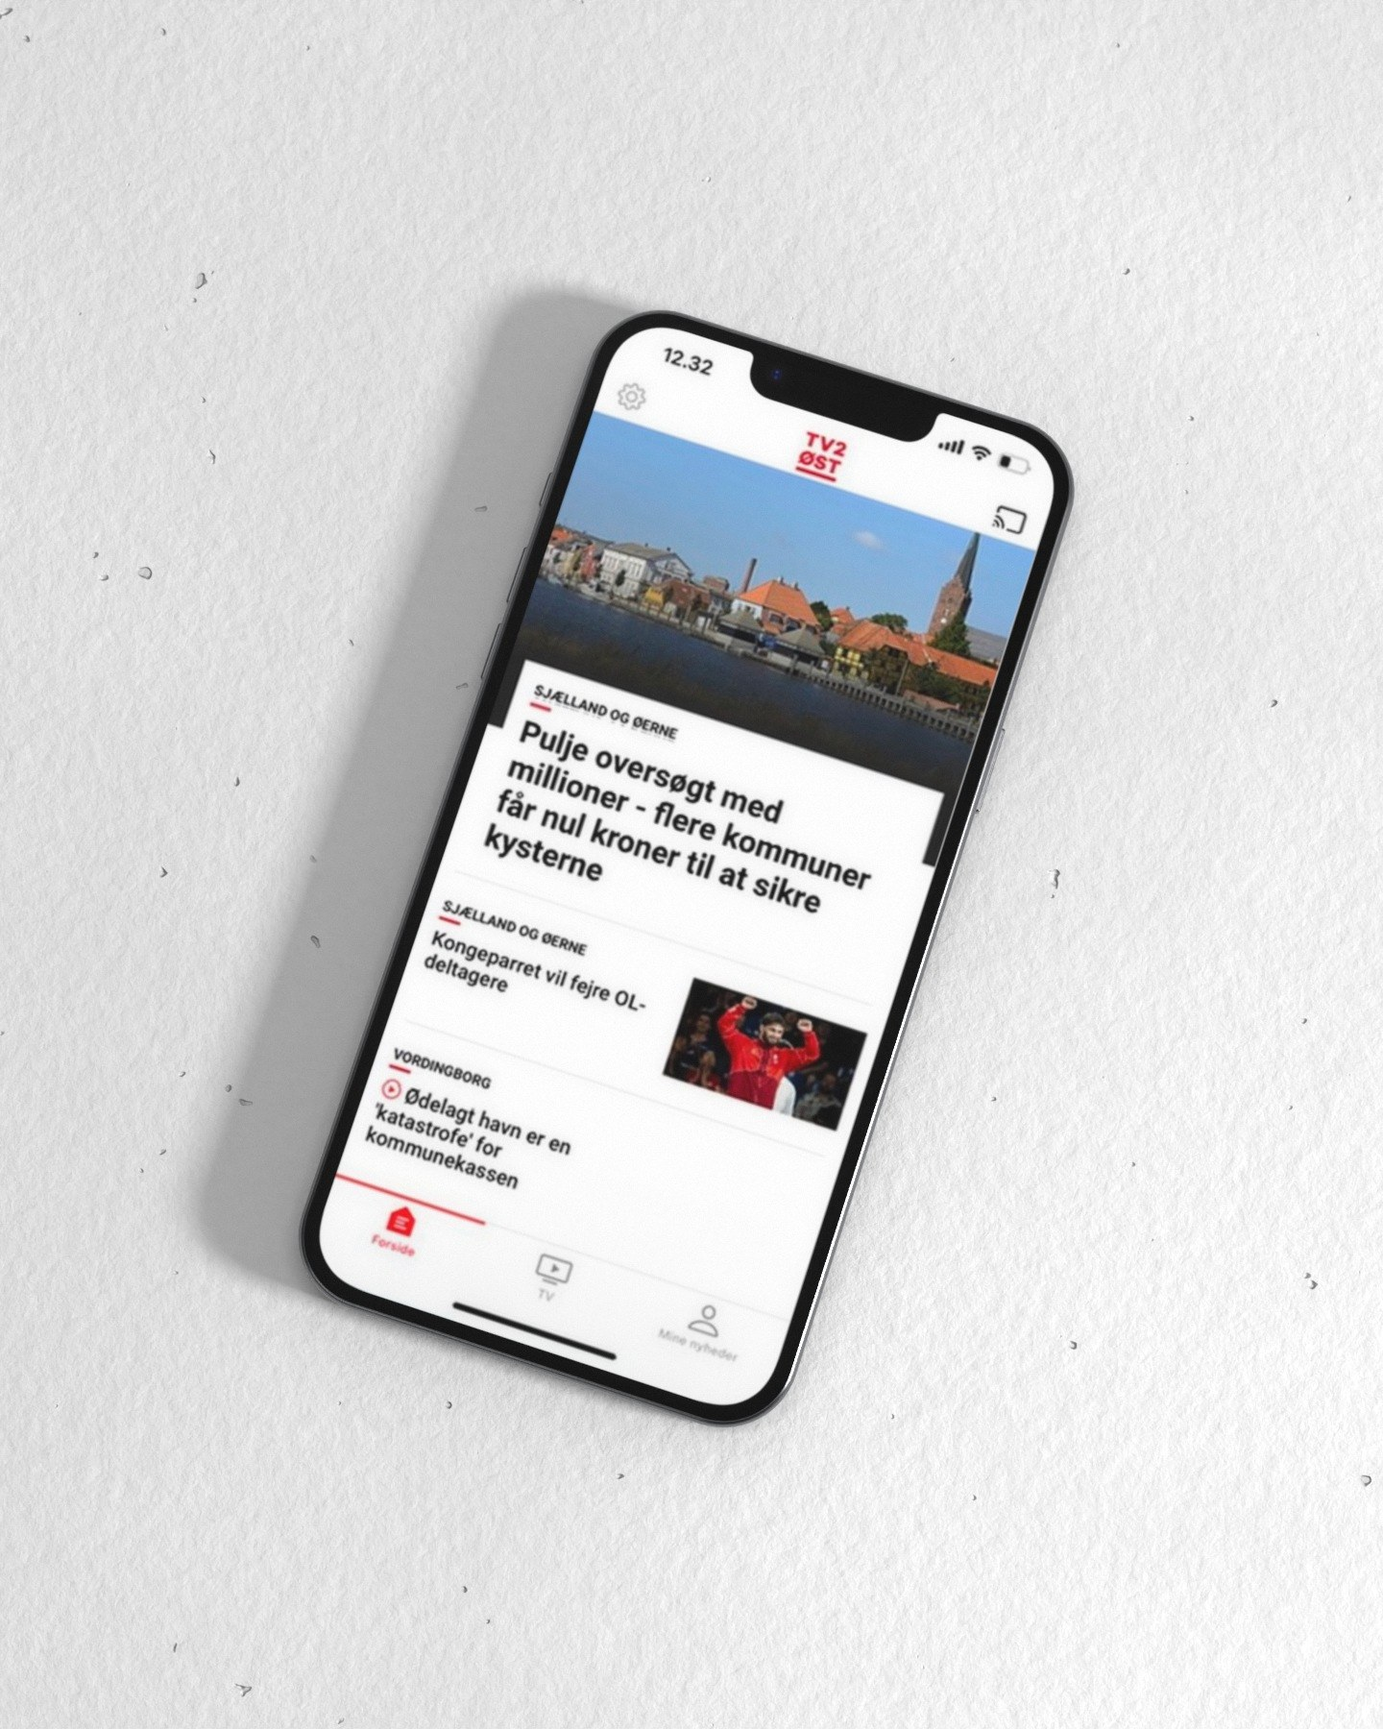
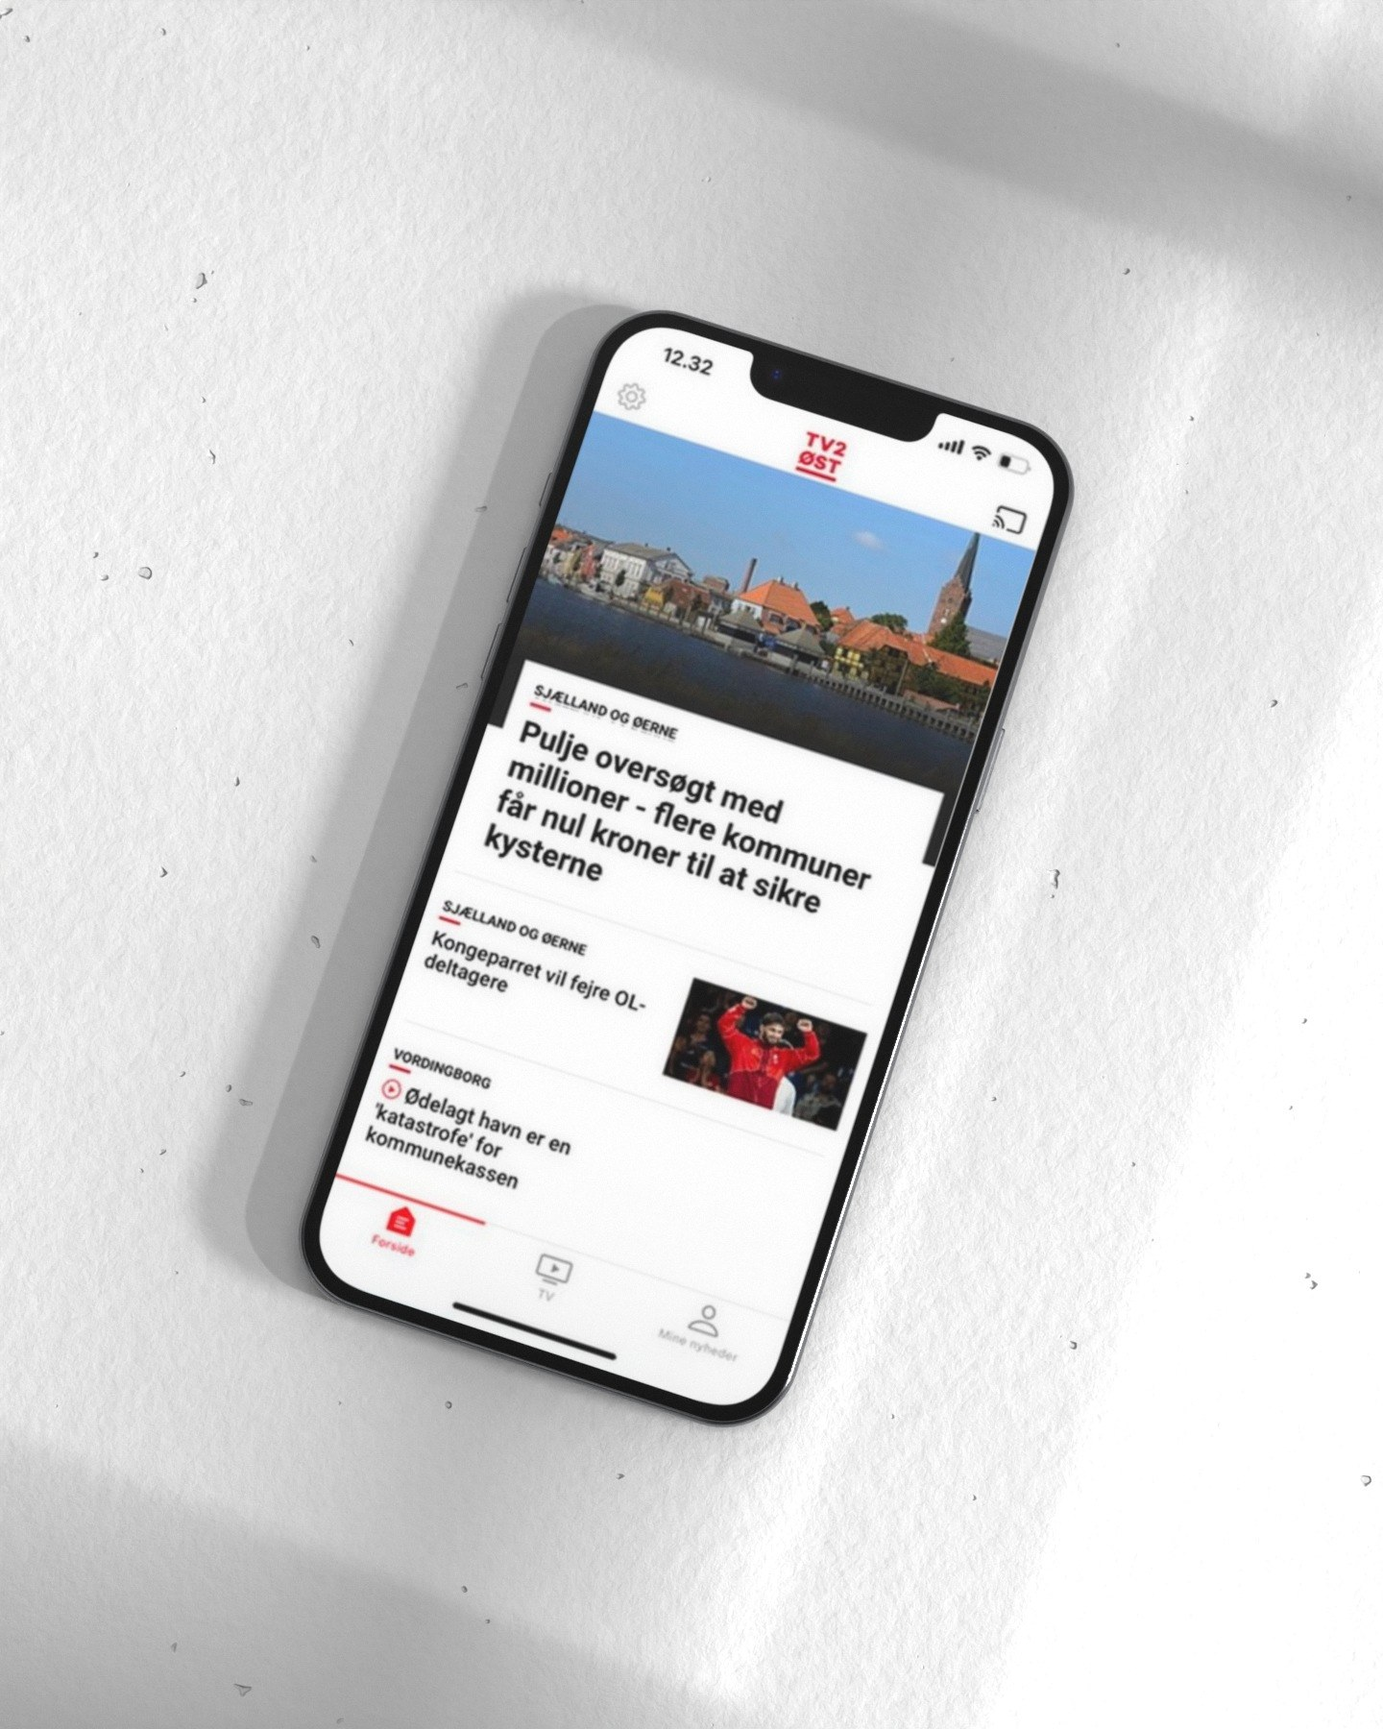
Donkey Republic and TV2 covers: light in the room (#66)
Donkey Republic in diffuse dappled sun from the key lamp's direction; TV2 with soft window light across the floor. New renders in every format: the wall, the small-screen cut, the case header and the share card. The screens keep their brightness; the room's lamps, not the exposure, make up for the sun. The cover shoot gains a light-in-the-room setup (PEOPLE=1), off by default.

Claude-Session: https://claude.ai/code/session_01TWSyw7ZJuA1HWZNDHNnh3M

Changed region(s): [[0.375, 0.0, 1.0, 0.2489], [0.0, 0.7467, 0.5312, 1.0]]

diff --git a/_covers/scenes.py b/_covers/scenes.py
@@ -3,6 +3,7 @@ sys.path.insert(0, os.path.dirname(os.path.abspath(__file__)))
 from studio import *
 T=os.path.dirname(os.path.abspath(__file__))+'/tex/'
 ARGS=sys.argv[sys.argv.index('--')+1:] if '--' in sys.argv else []
+PEOPLE=bool(os.environ.get('PEOPLE'))   # the covers' shadow figures (see shadows.py)
 which=ARGS[0]; quality=ARGS[1] if len(ARGS)>1 else 'test'; look=ARGS[2] if len(ARGS)>2 else 'mix'
 FLOOR,WALL={'concrete':('concrete','concrete'),'lino':('lino','paint'),'paint':('paint','paint'),'mix':('concrete','paint'),'plain':('plain','plain')}[look]
 
@@ -41,6 +42,8 @@ def donkey():
     box('floor', (5.0,5.0,0.02), (0,0,0.01), gf['rule'], bevel=0.002)
     rig,H,Tk,scr=phone(T+'donkey.png'); rig.rotation_euler=Euler((math.radians(-90),0,yaw),'XYZ'); c=(0.0,0.0,top+Tk/2); rig.location=c
     camera((0.09,-0.25,top+0.66),(0.006,-0.012,top), lens=85, fstop=8, focus=c); sheen(scr, slide=(-0.6,0.3,0))
+    if PEOPLE:   # light in the room: sun through leaves outside, dappled across the table
+        figure_shadow('dapples', T+'shadows/dapples.png', (0.02, 0.0, top+0.001), az=-19, el=44, width=1.0, dist=0.6, spread=2.2, strength=float(os.environ.get('SUN','0.9')))
 RES['donkey']=(1920,1280)
 
 def tv2():
@@ -49,9 +52,13 @@ def tv2():
     far=1.7 if os.environ.get('HEADER') else 1.0
     gf,gw=base_set(side=1, key=(1.5*far,-0.5*far,0.75*far), key_size=0.35*far, key_power=34*far*far)
     box('floor', (3.0,3.0,0.03), (0,0,0.015), gf['fill'], bevel=0.0015)
-    box('panel', (0.035,1.6,0.9), (0.36,0.62,0.48), gw['hover'], bevel=0.0015, rot=(0,0,math.radians(28)))
+    pnl=box('panel', (0.035,1.6,0.9), (0.36,0.62,0.48), gw['hover'], bevel=0.0015, rot=(0,0,math.radians(28)))
     rig,H,Tk,scr=phone(T+'tv2.png'); rig.rotation_euler=Euler((math.radians(-90),0,math.radians(-18)),'XYZ'); rig.location=(0.0,0.0,0.03+Tk/2)
     camera((0.0,-0.08,0.60),(0.0,0.0,0.03), lens=85, fstop=8); sheen(scr, slide=(-0.7,0.3,0))
+    if PEOPLE:   # morning: the window's light across the floor, the phone in one pane of it
+        hd=bool(os.environ.get('HEADER'))   # the wide shot shows far more floor: a larger window, and the softer, lighter shade of the small-screen cut
+        figure_shadow('window', T+'shadows/window.png', (0.10, 0.09, 0.031), az=70, el=40, width=1.0 if hd else 0.55, dist=0.85 if hd else 0.10, spread=0.45 if hd else 1.5, strength=float(os.environ.get('SUN','0.6')), only_sun=False, shade=0.7 if hd else 1.0)
+        if hd: pnl.visible_shadow=False   # in the wide shot the panel's shadow ends abruptly in view; the window gives the light instead
 RES['tv2']=(1440,1800)
 
 def ok():
@@ -61,6 +68,8 @@ def ok():
     box('under', (3.0,3.0,0.02), (0,0,0.01), gf['rule'], bevel=0.002)
     rig,H,Tk,scr=phone(T+'ok.png'); rig.rotation_euler=Euler((math.radians(-90),0,math.radians(16)),'XYZ'); rig.location=(0.10,0.06,0.06+Tk/2)
     camera((-0.020,-0.285,0.40),(0.112,0.058,0.06), lens=85, fstop=8); sheen(scr, slide=(-0.6,0.2,0))
+    if PEOPLE:   # light in the room: a faint patch of sun across the slab's far corner
+        figure_shadow('opening', T+'shadows/opening.png', (-0.03, 0.14, 0.061), az=-120, el=40, width=0.9, dist=0.20, spread=1.5, strength=float(os.environ.get('SUN','1.0')), roll=20)
 RES['ok']=(1440,1800)
 
 def theorg():
@@ -77,6 +86,8 @@ def theorg():
     box('floor', (5.0,5.0,0.02), (0,0,0.01), gf['rule'], bevel=0.002)
     rig.rotation_euler=Euler((math.radians(-90),0,yaw),'XYZ'); rig.location=(px,py,top+Tk/2)
     camera((0.0,-0.035,top+0.90),(0.0,0.0,top), lens=70, fstop=8); sheen(scr, power=0.6, slide=(-0.6,0.2,0))
+    if PEOPLE:   # light in the room: a patch of sun from a window out of frame, across the table's far corner
+        figure_shadow('opening', T+'shadows/opening.png', (-0.17, 0.09, top+0.001), az=200, el=40, width=1.2, dist=0.30, spread=1.5, strength=float(os.environ.get('SUN','0.8')), roll=25)
 RES['theorg']=(1920,1280)
 
 def trackman():
@@ -91,6 +102,8 @@ def trackman():
     # seen from the left: the screen's left side is nearest and the wall runs away to the right, so the
     # wall faces the floor on the right, where the radar stands looking back at the screen
     camera((-0.26,-1.10,0.30),(0.10,0.20,0.30), lens=62, fstop=8, shift=(-0.09,-0.165))   # the frame slid left, so screen and radar sit centred together
+    if PEOPLE:   # light in the room: a long patch of low sun across the floor in front of the screen
+        figure_shadow('opening', T+'shadows/opening.png', (0.10, -0.30, 0.041), az=-62, el=30, width=2.4, dist=0.8, spread=1.5, strength=float(os.environ.get('SUN','2.4')), roll=0)
 RES['trackman']=(2400,1350)
 
 def economic():
@@ -101,6 +114,8 @@ def economic():
     rig,W,D,scr=laptop(T+'economic-lap.png', open_deg=106)
     rig.location=(-0.02,0.10,0.04); rig.rotation_euler=Euler((0,0,math.radians(12)))
     camera((0.38,-0.97,0.36),(-0.02,0.12,0.150), lens=62, fstop=8, shift=(0,-0.052)); sheen(scr, power=0.5, slide=(0.9,0,0.3))
+    if PEOPLE:   # light in the room: one soft edge of shade across the wall, the laptop in the light
+        figure_shadow('edge', T+'shadows/edge.png', (-0.22, 0.5025-0.002, 0.50), az=-40, el=25, width=2.0, dist=0.35, spread=1.5, strength=float(os.environ.get('SUN','0.8')), roll=-30)
 RES['economic']=(2400,1350)
 
 # --- Small-screen versions --------------------------------------------------------------------
@@ -119,6 +134,8 @@ def tv2s():
     box('panel', (0.035,1.6,0.9), (0.36,0.62,0.48), gw['hover'], bevel=0.0015, rot=(0,0,math.radians(28)))
     rig,H,Tk,scr=phone(T+'tv2.png'); rig.rotation_euler=Euler((math.radians(-90),0,math.radians(-18)),'XYZ'); rig.location=(0.0,0.0,0.03+Tk/2)
     camera((0.0,-0.09,0.03+0.70),(0.0,0.0,0.03), lens=85, fstop=8); sheen(scr, slide=(-0.7,0.3,0))
+    if PEOPLE:   # morning: the window's light across the floor, the phone in one pane of it
+        figure_shadow('window', T+'shadows/window.png', (0.10, 0.09, 0.031), az=70, el=40, width=0.55, dist=0.10, spread=3.5, strength=float(os.environ.get('SUN','0.6')), only_sun=False, shade=0.55)   # as Carl liked it: the window shades the room's lamps too
 RES['tv2s']=(1600,1200)
 
 def oks():
@@ -166,13 +183,20 @@ if os.environ.get('FOCUS')=='display' or (which in APERTURE and os.environ.get('
     bpy.context.scene.camera.data.dof.focus_distance=2*n*fr/(n+fr)      # the plane that blurs the near and far edge equally
     if which in APERTURE: bpy.context.scene.camera.data.dof.aperture_fstop=APERTURE[which]
 if os.environ.get('FSTOP'): bpy.context.scene.camera.data.dof.aperture_fstop=float(os.environ['FSTOP'])
-suffix=os.environ.get('SUFFIX','')+('-header' if HEADER else '')
+suffix=os.environ.get('SUFFIX','')+('-people' if PEOPLE else '')+('-header' if HEADER else '')
 if quality=='focus':
     focus_report(' '+(os.environ.get('FOCUS','as-is')+' f/'+os.environ.get('FSTOP','-'))+' ')
     sys.exit(0)
 out=os.path.dirname(os.path.abspath(__file__))+f'/out/{which}-{look}-{quality}{suffix}.png'
+# Where a scene's sun would lift it, the room's lamps are turned down to make up for it, not the exposure:
+# exposure would dim the device's screen with everything else. (Screens light themselves.)
+ROOM={'donkey':0.88}.get(which) if PEOPLE else None
+if ROOM:
+    for o in bpy.context.scene.objects:
+        if o.type=='LIGHT' and o.data.type!='SUN' and not o.name.startswith('sheen'): o.data.energy*=ROOM
+EXPOSURE=float(os.environ.get('EXPO', {'economic':-0.22,'trackman':-0.45,'donkey':0.0,'theorg':-0.07,'ok':-0.2}.get(which,0))) if PEOPLE else 0.0   # a sun added to a scene lifts it; this brings it back to the cover's own level
 w,h=RES[which]; k,spp={'test':(3/8,32),'mid':(0.7,80),'final':(1,150)}[quality]
-render(out, res=(int(w*k),int(h*k)), samples=spp)
+render(out, res=(int(w*k),int(h*k)), samples=spp, exposure=EXPOSURE)
 # the lens and the film: a faint glow around the brightest parts and a fine grain over everything
 from PIL import Image, ImageFilter
 import numpy as np

diff --git a/_covers/shadows.py b/_covers/shadows.py
@@ -1,0 +1,123 @@
+# The figures whose shadows fall across some of the covers. Drawn here as white shapes on black (white
+# blocks the light), at a size where a soft shadow keeps them readable. Run once; writes tex/shadows/.
+import math, os
+from PIL import Image, ImageDraw, ImageFilter
+OUT=os.path.join(os.path.dirname(os.path.abspath(__file__)),'tex','shadows')
+S=2000
+def canvas(w=S,h=S): im=Image.new('L',(w,h),0); return im, ImageDraw.Draw(im)
+def limb(d,a,b,r): d.line([a,b],fill=255,width=int(2*r)); [d.ellipse([p[0]-r,p[1]-r,p[0]+r,p[1]+r],fill=255) for p in (a,b)]
+def body(d,pts,r): [limb(d,pts[i],pts[i+1],r) for i in range(len(pts)-1)]
+def head(d,c,r): d.ellipse([c[0]-r,c[1]-r*1.12,c[0]+r,c[1]+r*1.12],fill=255)
+def save(im,name): im.filter(ImageFilter.GaussianBlur(3)).save(os.path.join(OUT,name)); print(name, im.size)
+
+# A golfer at the top of the backswing, seen side on: club up behind the head, weight on the back foot.
+im,d=canvas(1500,2000)
+d.polygon([(560,560),(880,540),(900,640),(860,900),(830,1120),(560,1130),(540,900),(520,650)],fill=255)   # chest to hips, turned
+d.ellipse([500,1000,880,1260],fill=255)                       # hips
+d.ellipse([735,470,815,580],fill=255)                         # neck
+head(d,(790,420),98)
+body(d,[(600,1180),(560,1540),(540,1920)],88)                  # back leg, straight
+body(d,[(800,1180),(900,1520),(900,1920)],84)                  # front leg, knee in
+d.ellipse([430,1880,680,1975],fill=255); d.ellipse([820,1880,1060,1975],fill=255)
+body(d,[(600,640),(420,560),(410,330)],62)                     # back arm, elbow out, hands up
+body(d,[(820,640),(640,470),(440,330)],58)                     # front arm across to the hands
+d.ellipse([380,290,500,400],fill=255)                          # the hands together
+limb(d,(450,330),(1020,90),14)                                 # the club, over the shoulder
+d.polygon([(1005,70),(1095,45),(1105,95),(1025,115)],fill=255)
+save(im,'golfer.png')
+
+# A small team standing together, seen from the front: three people, shoulder to shoulder.
+im,d=canvas(2600,1800)
+def person(x,top,k):
+    head(d,(x,top+150*k),118*k)
+    d.rectangle([x-52*k,top+250*k,x+52*k,top+330*k],fill=255)                         # neck
+    d.rounded_rectangle([x-300*k,top+300*k,x+300*k,1900],radius=int(210*k),fill=255)  # shoulders and body
+for x,top,k in ((620,140,0.97),(1300,40,1.03),(1980,170,0.95)): person(x,top,k)
+save(im,'team.png')
+
+# Someone leaning in over a desk, seen from the side: head forward, back curved, a forearm reaching.
+im,d=canvas(2000,1400)
+d.polygon([(300,1400),(330,900),(450,640),(700,520),(900,560),(980,700),(940,900),(900,1400)],fill=255)
+d.ellipse([820,420,900,560],fill=255)
+head(d,(930,380),140)
+body(d,[(860,760),(1200,980),(1650,1040)],80)
+d.ellipse([1610,990,1760,1090],fill=255)
+save(im,'leaning.png')
+
+# A window: the frame and its bars block the light, the panes let it through.
+im,d=canvas(2000,2400)
+d.rectangle([0,0,2000,2400],fill=255)
+for x0 in (180,1040):
+    for y0 in (200,1240):
+        d.rectangle([x0,y0,x0+780,y0+960],fill=0)
+save(im,'window.png')
+
+# A bicycle's front: the wheel with its spokes, the fork, and the handlebar.
+im,d=canvas(2000,2000)
+c=(1000,1250); R=620
+d.ellipse([c[0]-R,c[1]-R,c[0]+R,c[1]+R],outline=255,width=70)
+for k in range(18):
+    a=k*math.pi/9; d.line([c,(c[0]+R*math.cos(a),c[1]+R*math.sin(a))],fill=255,width=9)
+limb(d,c,(1000,470),34); limb(d,(1000,470),(1000,330),30)
+limb(d,(640,300),(1360,300),30); limb(d,(640,300),(560,380),28); limb(d,(1360,300),(1440,380),28)
+save(im,'bike.png')
+
+# A man walking past, side on, mid-stride: one arm forward, one back.
+im,d=canvas(1300,2000)
+head(d,(700,180),100)
+d.ellipse([650,260,740,360],fill=255)                                            # neck
+d.polygon([(540,330),(830,320),(860,520),(820,980),(560,990),(520,560)],fill=255)  # coat, shoulders to hips
+d.ellipse([540,900,840,1100],fill=255)                                           # hips
+body(d,[(650,1050),(470,1480),(330,1900)],78)                                     # back leg, behind
+body(d,[(740,1050),(880,1460),(1000,1880)],80)                                    # front leg, reaching
+d.ellipse([230,1860,450,1960],fill=255); d.ellipse([940,1840,1160,1940],fill=255)
+body(d,[(600,420),(470,700),(400,940)],56)                                       # arm swinging back
+body(d,[(800,420),(920,700),(1010,920)],56)                                      # arm swinging forward
+save(im,'walker.png')
+
+# The bicycle again, bolder: fewer, thicker spokes and a heavier rim, so it reads as a bike when soft.
+im,d=canvas(2000,2000)
+c=(1000,1250); R=620
+d.ellipse([c[0]-R,c[1]-R,c[0]+R,c[1]+R],outline=255,width=110)
+for k in range(8):
+    a=k*math.pi/4+0.2; d.line([c,(c[0]+R*math.cos(a),c[1]+R*math.sin(a))],fill=255,width=26)
+d.ellipse([c[0]-70,c[1]-70,c[0]+70,c[1]+70],fill=255)
+limb(d,c,(1000,470),46); limb(d,(1000,470),(1000,320),40)
+limb(d,(600,290),(1400,290),42); limb(d,(600,290),(500,400),38); limb(d,(1400,290),(1500,400),38)
+save(im,'bike-bold.png')
+
+# Light without a figure. 'edge': one straight edge of shade, as when a wall beside a window cuts the sun
+# off (white blocks the sun, so the left half is the shade). 'opening': a window's opening with no frame,
+# a single patch of sun in a wide shade.
+im,d=canvas(2000,2000); d.rectangle([0,0,1000,2000],fill=255); im.save(os.path.join(OUT,'edge.png')); print('edge.png')
+im,d=canvas(3000,3000); d.rectangle([0,0,3000,3000],fill=255); d.rectangle([1100,900,1900,2100],fill=0); im.save(os.path.join(OUT,'opening.png')); print('opening.png')
+
+# Foliage: a branch's leaves between the sun and the table. Seen soft, only dapples of light and shade
+# remain; no leaf should be readable on its own.
+import random
+rnd=random.Random(7)
+im,d=canvas(2400,2400)
+for _ in range(4):                                                   # a few branches across the frame
+    x,y=rnd.uniform(-200,2600),rnd.uniform(-200,600); ang=rnd.uniform(0.6,1.4)
+    for k in range(60):
+        x+=math.cos(ang)*45; y+=math.sin(ang)*45; ang+=rnd.uniform(-0.12,0.12)
+        d.line([(x,y),(x-math.cos(ang)*45,y-math.sin(ang)*45)],fill=255,width=14)
+        for _ in range(2):                                           # leaves along it
+            a=rnd.uniform(0,2*math.pi); r=rnd.uniform(40,170); lx,ly=x+math.cos(a)*r,y+math.sin(a)*r
+            L,W=rnd.uniform(60,120),rnd.uniform(28,50); t=rnd.uniform(0,math.pi)
+            pts=[(lx+math.cos(t)*L*math.cos(u)-math.sin(t)*W*math.sin(u), ly+math.sin(t)*L*math.cos(u)+math.cos(t)*W*math.sin(u)) for u in [i*math.pi/10 for i in range(20)]]
+            d.polygon(pts,fill=255)
+save(im,'foliage.png')
+
+# Dappled light, as under a tree: the canopy is mostly shade (white), with many small gaps of sun (black),
+# clustered unevenly. Real dapples are round, little images of the sun through the gaps, so the gaps are
+# small irregular blobs, not leaf shapes; the softness at render time rounds them further.
+rnd=random.Random(11)
+im,d=canvas(3000,3000); d.rectangle([0,0,3000,3000],fill=255)
+centres=[(rnd.uniform(0,3000),rnd.uniform(0,3000)) for _ in range(14)]
+for _ in range(420):
+    cx,cy=rnd.choice(centres); x=rnd.gauss(cx,320); y=rnd.gauss(cy,320)
+    r=abs(rnd.gauss(0,1))*26+8
+    pts=[(x+r*rnd.uniform(0.7,1.3)*math.cos(a),y+r*rnd.uniform(0.7,1.3)*math.sin(a)) for a in [k*math.pi/5 for k in range(10)]]
+    d.polygon(pts,fill=0)
+save(im,'dapples.png')

diff --git a/_covers/studio.py b/_covers/studio.py
@@ -1,6 +1,6 @@
 # A small studio: a canvas-grey cove, plain blocks in the site's greys, one device.
 import bpy, bmesh, math, sys, json, os
-from mathutils import Vector, Euler
+from mathutils import Vector, Euler, Quaternion
 
 def lin(h):
     h=h.lstrip('#'); c=[int(h[i:i+2],16)/255 for i in (0,2,4)]
@@ -281,3 +281,41 @@ def render(path, res=(1800,1200), samples=160, exposure=0.0):
     s.render.image_settings.file_format='PNG'; s.render.filepath=path
     s.cycles.max_bounces=6; s.cycles.caustics_reflective=False; s.cycles.caustics_refractive=False
     bpy.ops.render.render(write_still=True)
+
+def figure_shadow(name, png, target, az, el, width, dist, spread=2.0, strength=2.0, mirror=False, roll=0.0, only_sun=True, shade=1.0, wall=False):
+    """A low sun, and in its path a cut-out figure the camera never sees: only its shadow lands, on the
+    surface at `target`. az/el: where the sun is, in degrees (az 0 = from the camera's side, -Y; 90 = from
+    +X). The cut-out stands `dist` metres from the target towards the sun, square to the light, so its
+    shadow is its own shape at its own size; `spread` is the sun's angular size, which softens it."""
+    a,e=math.radians(az),math.radians(el)
+    to_sun=Vector((math.sin(a)*math.cos(e), -math.cos(a)*math.cos(e), math.sin(e))).normalized()
+    s=bpy.data.lights.new(name+'-sun','SUN'); s.energy=strength; s.angle=math.radians(spread)
+    # the studio's curved backdrop rises far behind everything; a sun from behind would only light its far side
+    for o in bpy.context.scene.objects:
+        if o.name.startswith('cove'): o.visible_shadow=False
+    so=link(bpy.data.objects.new(name+'-sun',s)); so.rotation_euler=(-to_sun).to_track_quat('-Z','Y').to_euler()
+    img=bpy.data.images.load(png, check_existing=True); h=width*img.size[1]/img.size[0]
+    m=bpy.data.materials.new(name); m.use_nodes=True; nt=m.node_tree; N=nt.nodes; L=nt.links
+    for n in list(N): N.remove(n)
+    out=N.new('ShaderNodeOutputMaterial'); mix=N.new('ShaderNodeMixShader'); tr=N.new('ShaderNodeBsdfTransparent'); df=N.new('ShaderNodeBsdfDiffuse')
+    df.inputs['Color'].default_value=(0,0,0,1)
+    t=N.new('ShaderNodeTexImage'); t.image=img; t.extension='EXTEND' if wall else 'CLIP'   # wall: the window's frame runs on into a wall, so no light gets round its edge
+    mul=N.new('ShaderNodeMath'); mul.operation='MULTIPLY'; mul.inputs[1].default_value=shade; L.new(t.outputs['Color'], mul.inputs[0])   # shade<1: the cut-out lets some light through, so its shadow is lighter
+    L.new(mul.outputs[0], mix.inputs['Fac']); L.new(tr.outputs[0], mix.inputs[1]); L.new(df.outputs[0], mix.inputs[2]); L.new(mix.outputs[0], out.inputs['Surface'])
+    if wall:   # a much larger plane, the picture in its middle and its edge carried out to all sides
+        tc=N.new('ShaderNodeTexCoord'); mp=N.new('ShaderNodeMapping'); mp.inputs['Location'].default_value=(-2.0,-2.0,0); mp.inputs['Scale'].default_value=(5,5,1)
+        L.new(tc.outputs['UV'], mp.inputs['Vector']); L.new(mp.outputs['Vector'], t.inputs['Vector'])
+        p=plane_xz(name, width*5, h*5, m)
+    else:
+        p=plane_xz(name, width, h, m)
+    if mirror: p.scale.x=-1
+    p.location=Vector(target)+to_sun*dist
+    p.rotation_euler=(Quaternion(to_sun, math.radians(roll)) @ to_sun.to_track_quat('-Y','Z')).to_euler()
+    for attr in ('visible_camera','visible_glossy','visible_transmission','visible_diffuse'): setattr(p, attr, False)
+    # the cut-out stands in the sun's way and no other light's: every other lamp ignores it
+    if not only_sun: return p
+    coll=bpy.data.collections.new(name+'-only-sun'); coll.objects.link(p)
+    for co in coll.collection_objects: co.light_linking.link_state='EXCLUDE'
+    for o in bpy.context.scene.objects:
+        if o.type=='LIGHT' and o is not so: o.light_linking.blocker_collection=coll
+    return p
